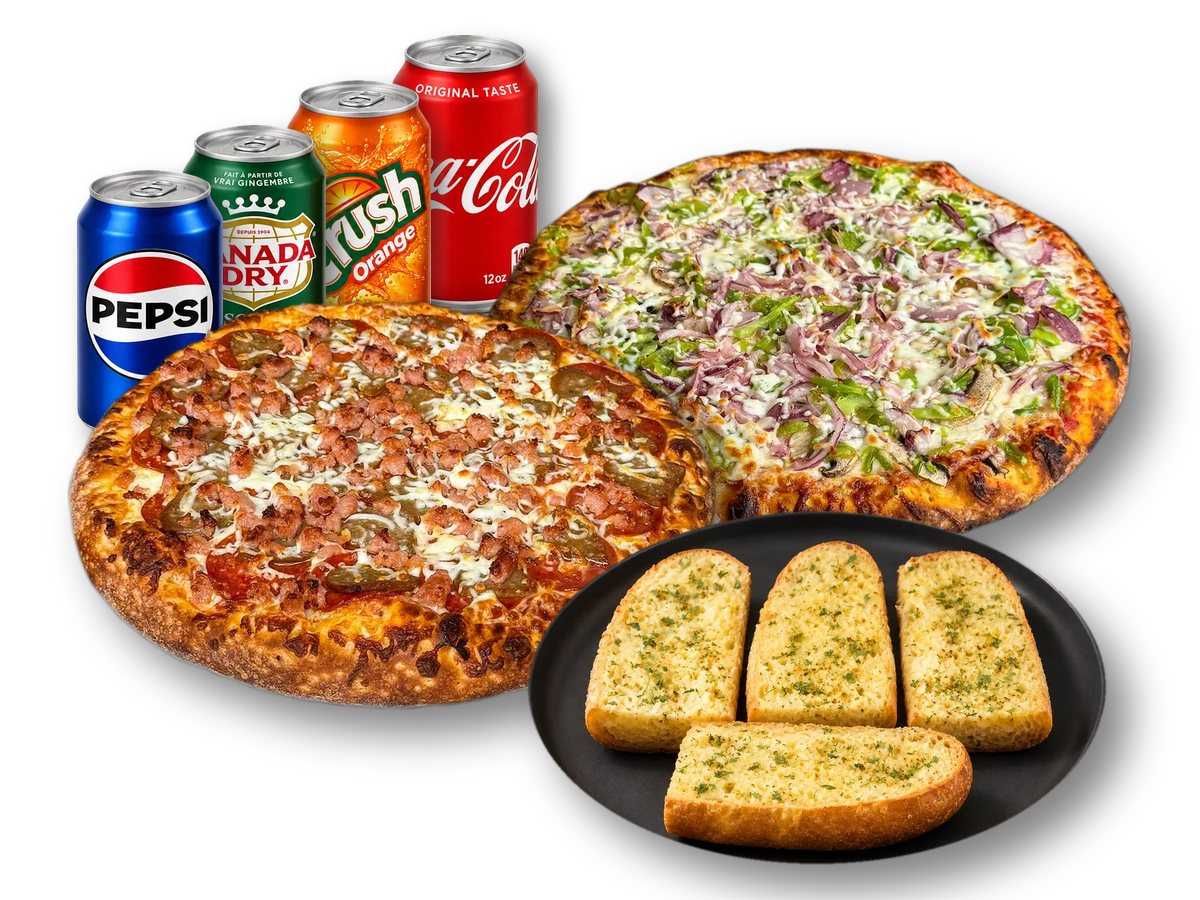
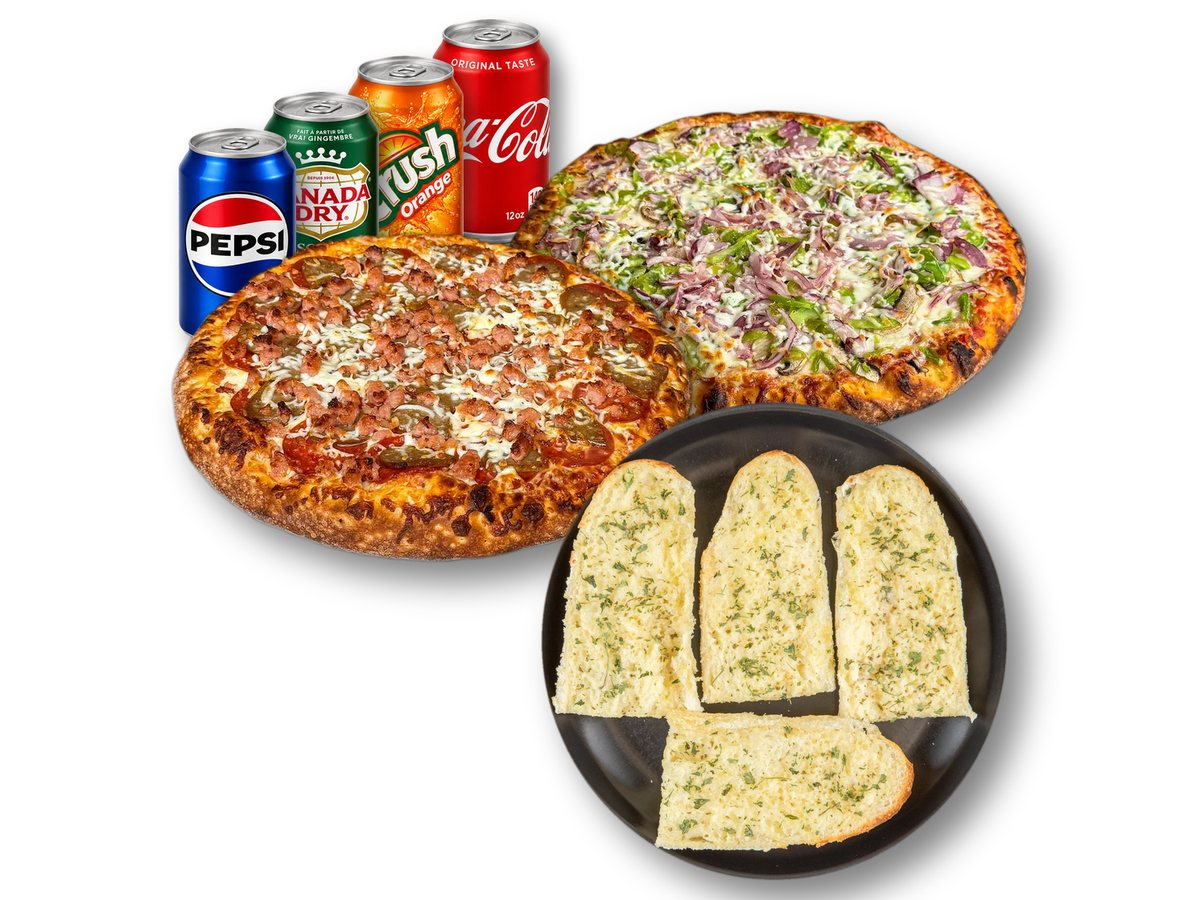
Garlic bread photos on the sides menu, Take Care image as the Combos cover
Claude-Session: https://claude.ai/code/session_01GwuNKQ4EhJTqGbbawQ6M8A

diff --git a/pages/menu.js b/pages/menu.js
@@ -673,7 +673,7 @@ function MenuBody() {
       { id: "specialty",   label: "Specialty Pizzas", photo: "canadian", nav: { tab: "entrees", sub: "specialty" } },
       { id: "wings",       label: "Wings",            img: "/images/wings.jpg",     nav: { tab: "entrees", sub: "wings" } },
       { id: "sides",       label: "Sides",            img: "/images/menu_sides.png",     nav: { tab: "sides" } },
-      { id: "combos",      label: "Combos",           img: "/images/menu_combos.png",    nav: { tab: "entrees", sub: "combos" } },
+      { id: "combos",      label: "Combos",           img: "/images/combos/combos-cover.jpg", nav: { tab: "entrees", sub: "combos" } },
       { id: "drinks-dips", label: "Drinks & Dips",    img: "/images/menu_drinks.png",    nav: { tab: "drinks" } },
       { id: "special",     label: "Special Menu",     img: "/images/menu_special.png",   nav: { tab: "entrees", sub: "special" } },
     ],

diff --git a/scripts/combo-images.py b/scripts/combo-images.py
@@ -128,3 +128,8 @@ save(pizza_wings(FRONT, 600, 6), "small-6-wings")
 save(pizza_wings(FRONT, 720, 12), "large-12-wings")
 # 2 large pizzas + garlic bread + 4 pops
 save(take_care(BACK, FRONT, 650, 580, 280, 105, 45), "takecare")
+
+# Combos category cover on the menu page (3:2 tile): the Take Care image with
+# white added at the sides so nothing gets cropped off the top or bottom
+tc = Image.open(f"{OUT}/takecare.jpg"); cover = Image.new("RGB", (1350, 900), "white")
+cover.paste(tc, ((1350 - tc.width) // 2, 0)); save(cover, "combos-cover")
